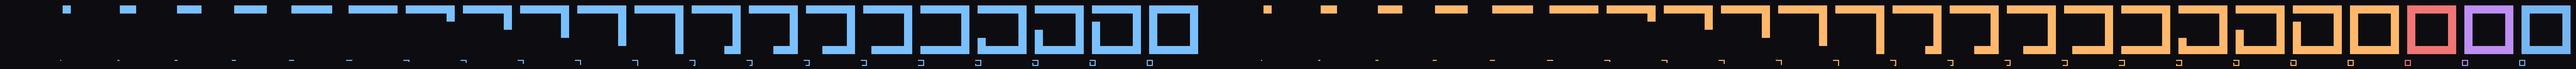
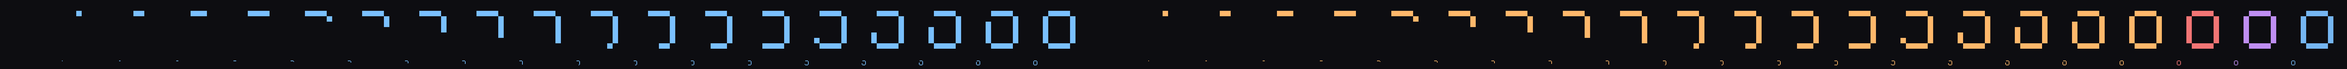
fix: the tray letter reads as an o, not a square
Six columns by seven rows with the corners chamfered and a one cell stroke: at a 20px tray slot that is a 2px stroke (was 3px) and a taller than wide glyph, so it looks like the o of the wordmark instead of a box. The build step is derived from the ring size, so a full build still takes about two seconds.

Changed region(s): [[0.0, 0.0588, 1.0, 0.7941]]

diff --git a/README.md b/README.md
@@ -26,6 +26,8 @@ Tray icons for the same states, the letter o building itself pixel by pixel whil
 
 ![tray icons in every state](https://raw.githubusercontent.com/LucasInstra/opencode-status-popup/main/docs/tray.png)
 
+The letter is drawn on a 6x7 pixel grid with the four corners chamfered and a stroke one cell thick, so it reads as an o (taller than wide, like the glyph in the wordmark) instead of a square box. Pixels appear clockwise from the top left, about 2 every 250ms, and a finished letter holds for half a second before it starts over. Regenerate the sheet with `npm run docs:images`.
+
 Two renderers, chosen with the `mode` option:
 
 | | `window` (default) | `tray` |
@@ -34,7 +36,7 @@ Two renderers, chosen with the `mode` option:
 | Animation | the word types itself out | the o building itself pixel by pixel while it works, blinking while it waits |
 | Cost | ~45–60 MB (PowerShell + WPF) | ~30–40 MB (PowerShell + WinForms) |
 | Intrusiveness | floats above other windows, but no border, no taskbar button, does not steal focus | nothing covers the screen |
-| Legibility of the word | fully readable | not readable at 16 px, hence the mark and the tooltip |
+| Legibility of the word | fully readable | the word does not fit in a 16px slot, hence the letter o |
 
 Both are a single detached PowerShell process that is started on demand, shared by every OpenCode instance, and exits by itself a few seconds after the last instance goes away.
 
